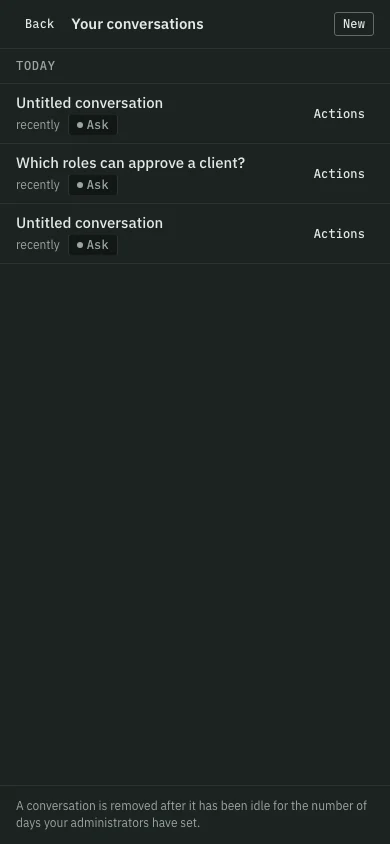
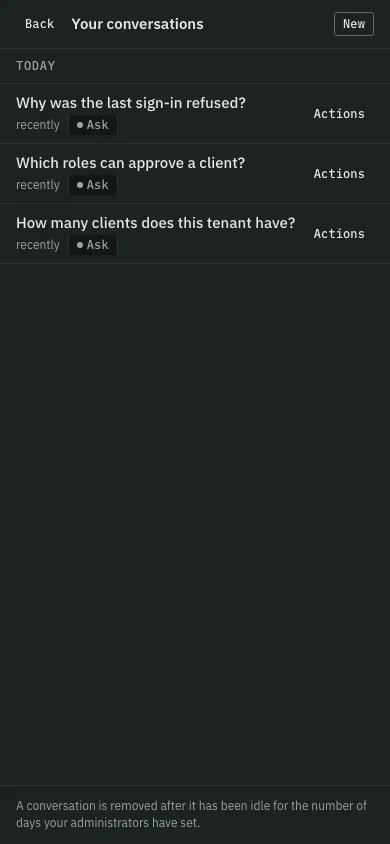
docs: re-capture the OpenAPI transcript and conversation screenshots
Live OpenAPI size; titled conversations in the shots made deterministic; literal problem types in the route.

diff --git a/packages/protocol-admin/src/view/routes/assistant.ts b/packages/protocol-admin/src/view/routes/assistant.ts
@@ -389,22 +389,30 @@ type EndedReason = 'archived' | 'revoked' | 'not_allowed';
 
 // What a conversation that could not be given a grant answers: its own problem
 // type for each reason a person acts on differently.
-const ENDED_PROBLEMS: Readonly<Record<EndedReason, { type: string; detail: string }>> = {
-  archived: {
-    type: 'conversation-archived',
-    detail: 'the conversation is hidden from your list; restore it, then send the message again',
-  },
-  revoked: {
-    type: 'conversation-ended',
-    detail:
+function endedProblem(reason: EndedReason) {
+  if (reason === 'archived') {
+    return problem(
+      409,
+      'about:blank#conversation-archived',
+      'Conflict',
+      'the conversation is hidden from your list; restore it, then send the message again',
+    );
+  }
+  if (reason === 'revoked') {
+    return problem(
+      409,
+      'about:blank#conversation-ended',
+      'Conflict',
       'the sign-in this conversation acted under was ended for a reason other than signing out, so it is not carried on; start a new conversation',
-  },
-  not_allowed: {
-    type: 'conversation-access-refused',
-    detail:
-      'the sign-in you hold now may not carry this conversation on: the assistant, your capabilities or the tenant it acts in no longer allow it',
-  },
-};
+    );
+  }
+  return problem(
+    409,
+    'about:blank#conversation-access-refused',
+    'Conflict',
+    'the sign-in you hold now may not carry this conversation on: the assistant, your capabilities or the tenant it acts in no longer allow it',
+  );
+}
 
 // What a refused turn answers, for a message and a resume alike.
 function refusedTurn(
@@ -419,12 +427,7 @@ function refusedTurn(
 ): FastifyReply {
   if (outcome.kind === 'not_found') return notFound(request, reply);
   if (outcome.kind === 'ended') {
-    const refusal = ENDED_PROBLEMS[outcome.reason];
-    return sendProblem(
-      reply,
-      request,
-      problem(409, `about:blank#${refusal.type}`, 'Conflict', refusal.detail),
-    );
+    return sendProblem(reply, request, endedProblem(outcome.reason));
   }
   if (outcome.kind === 'busy') {
     return sendProblem(

diff --git a/apps/docs/scripts/console-shots/screens.ts b/apps/docs/scripts/console-shots/screens.ts
@@ -74,7 +74,11 @@ async function askAndLeave(page: Page, question: string): Promise<void> {
     .getByRole('button', { name: 'New conversation', exact: true })
     .and(page.locator(':not([disabled])'));
   await stop.or(fresh).first().waitFor();
-  if (await stop.isVisible()) await stop.click();
+  // The turn ends by itself once the provider refuses; stopping it before it has
+  // stored the message would leave the conversation untitled at random.
+  if (await stop.isVisible()) {
+    await stop.waitFor({ state: 'hidden', timeout: 20_000 }).catch(() => stop.click());
+  }
   await fresh.waitFor();
   await fresh.click();
   await page.getByText('Ask about this tenant').waitFor();

diff --git a/apps/docs/content/en/reference/transcripts/admin-paths/get-adminopenapijson.md b/apps/docs/content/en/reference/transcripts/admin-paths/get-adminopenapijson.md
@@ -19,11 +19,11 @@ wc -c < openapi.json | tr -d ' '
 
 ```
 HTTP/1.1 200 OK
-x-request-id: 01a21755-0e3d-787c-9e99-e5d1f6d0fdfb
+x-request-id: 01a21c45-fe1b-7991-8b77-9b40099defb1
 access-control-allow-origin: *
 content-type: application/json; charset=utf-8
 content-length: 497263
-Date: Thu, 26 Nov 2026 10:09:39 GMT
+Date: Fri, 27 Nov 2026 09:11:18 GMT
 Connection: keep-alive
 Keep-Alive: timeout=72
 
